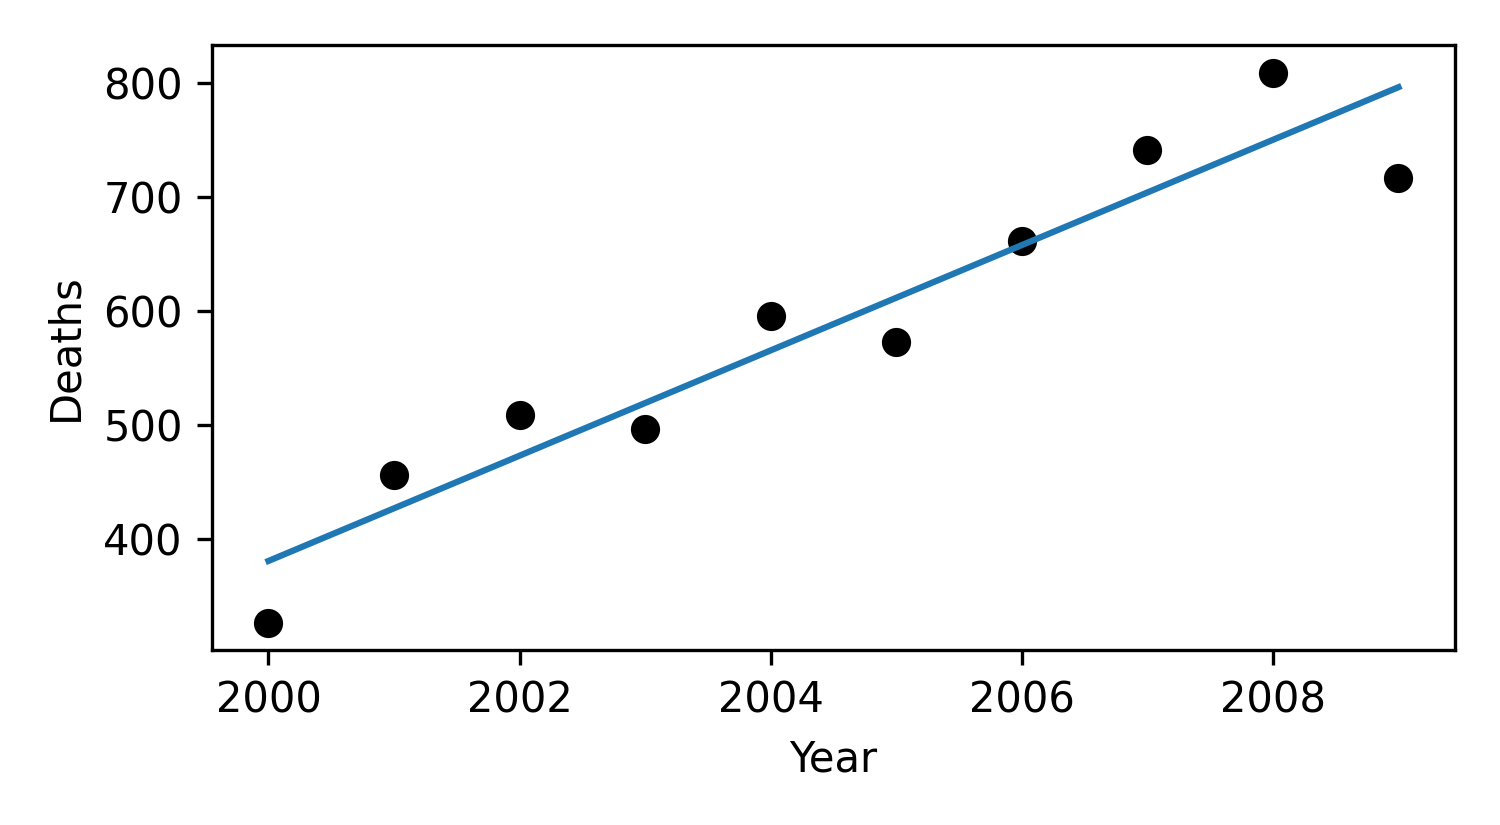
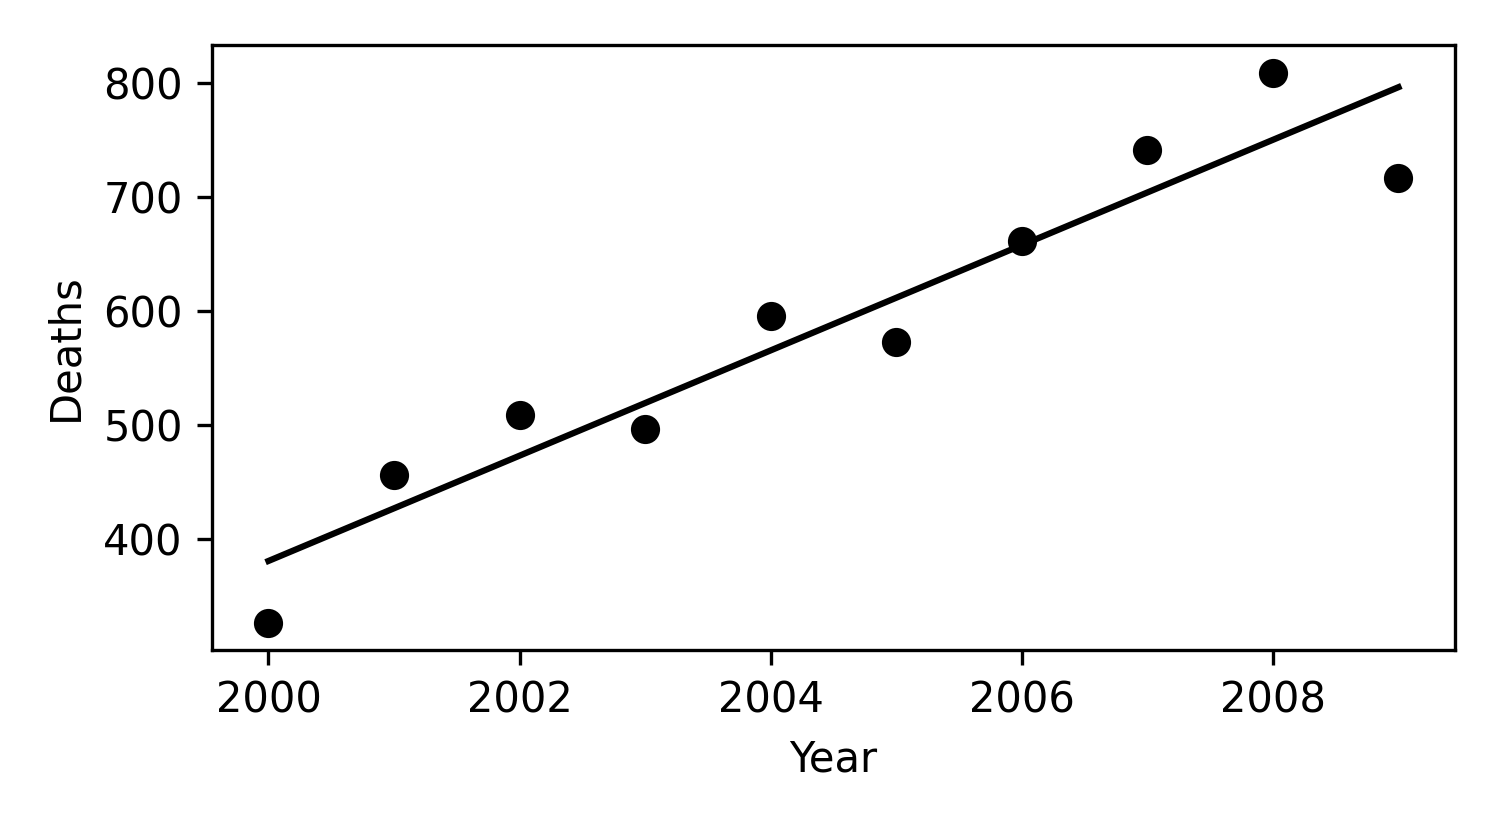
added subplots + tips

diff --git a/workshop_slides/index.html b/workshop_slides/index.html
@@ -9,7 +9,7 @@
     <link href="libs/font-awesome/css/v4-shims.css" rel="stylesheet" />
     <link href="libs/tile-view/tile-view.css" rel="stylesheet" />
     <script src="libs/tile-view/tile-view.js"></script>
-    <script type="application/json" id="xaringanExtra-editable-docid">{"id":"d8af196d5f0447999251be35ef90fbaa","expires":1}</script>
+    <script type="application/json" id="xaringanExtra-editable-docid">{"id":"xd3f2c82b7274dc48c5416cb8ad653d3","expires":1}</script>
     <script src="libs/himalaya/himalaya.js"></script>
     <script src="libs/js-cookie/js.cookie.js"></script>
     <link href="libs/editable/editable.css" rel="stylesheet" />
@@ -120,7 +120,7 @@ import pandas as pd
 
 class: middle
 
-Let's use [this data set](./data/cheese_and_deaths.csv) for our discussion 😄 ([click to download](./data/cheese_and_deaths.csv))
+Let's use [the cheese and deaths dataset](./data/cheese_and_deaths.csv) for our discussion 😄 ([click me to download](./data/cheese_and_deaths.csv))
 
 
 ```python
@@ -214,7 +214,7 @@ Let's create the functions `\(\Delta\)`, `\(A\)`, and `\(B\)` together!
 \end{equation*}`
 
 .can-edit[
-add code here!
+click here to add code :)
 ]
 ]
 
@@ -226,23 +226,21 @@ add code here!
 \end{equation*}`
 
 .can-edit[
-add code here
+click here to add code :)
 ]
 ]
 
 .panel[.panel-name[B(x, y)]
-.small[.hand[Your turn!]]
-
 `\begin{equation*}
   B(x, y) = \frac{N \sum xy - \sum x \sum y}{\Delta}
 \end{equation*}`
 
 .can-edit[
-you add the code now :)
+your turn to code now :)
 ]
 
-&lt;br&gt;&lt;br&gt;&lt;br&gt;&lt;br&gt;&lt;br&gt;&lt;br&gt;&lt;br&gt;
-<div class="countdown" id="timer_618ad31b" style="right:0;bottom:0;" data-warnwhen="0">
+&lt;br&gt;&lt;br&gt;&lt;br&gt;&lt;br&gt;&lt;br&gt;&lt;br&gt;&lt;br&gt;&lt;br&gt;&lt;br&gt;
+<div class="countdown" id="timer_618b3427" style="right:0;bottom:0;" data-warnwhen="0">
 <code class="countdown-time"><span class="countdown-digits minutes">01</span><span class="countdown-digits colon">:</span><span class="countdown-digits seconds">00</span></code>
 </div>
 
@@ -251,29 +249,18 @@ you add the code now :)
 
 ---
 
-class: middle
-
-.small[.hand[Let's add a line to our plot 😄]]
-
-
-```python
-plt.figure(figsize=(5, 2.75))
-plt.scatter(df['year'], df['deaths'], color='black')
-plt.xlabel('Year')
-plt.ylabel('Deaths')
-plt.tight_layout()
-plt.show()
-```
+.panelset[
+.panel[.panel-name[How do we add lines?]
+.small[.hand[Recall that this was our plot:]
 
 &lt;img src="index_files/figure-html/orig-fig-1.png" width="480" /&gt;
+]]
 
----
-
-.panelset[
 .panel[.panel-name[Generate the line]
+.small[.hand[Let's add a line to our plot 😄]
 
 
-.small[
+
 
 ```python
 intercept = A(df['year'], df['deaths'])
@@ -281,6 +268,8 @@ slope = B(df['year'], df['deaths'])
 x = np.linspace(min(df['year']), max(df['year']), len(df['year']))
 y = intercept + slope*x
 ```
+
+The function `np.linspace(start, stop, num)` will generate evenly spaced numbers `num` times from `start` to `stop`.
 ]]
 
 .panel[.panel-name[Plot the line]
@@ -288,7 +277,7 @@ y = intercept + slope*x
 
 ```python
 plt.figure(figsize=(5, 2.75))
-*plt.plot(x, y)
+*plt.plot(x, y, color='black')
 plt.scatter(df['year'], df['deaths'], color='black')
 plt.xlabel('Year')
 plt.ylabel('Deaths')
@@ -313,9 +302,122 @@ Using the same dataset (`df`),
 ]
 &lt;br&gt;&lt;br&gt;&lt;br&gt;
 
-<div class="countdown" id="timer_618ad0b7" style="right:0;bottom:0;" data-warnwhen="0">
+<div class="countdown" id="timer_618b32db" style="right:0;bottom:0;" data-warnwhen="0">
 <code class="countdown-time"><span class="countdown-digits minutes">02</span><span class="countdown-digits colon">:</span><span class="countdown-digits seconds">00</span></code>
 </div>
+
+---
+
+class: middle
+
+# Subplots
+
+.hand[Q:] It's nice that we have a plot for `year` vs `deaths` and `year` vs `cheese_consumption`, but what if we want them on the same plot?
+
+.hand[A:] Subplots!
+
+---
+
+.panelset[
+.panel[.panel-name[Adding the cheese axis]
+Recall from previou slides that `x = df['year']` and `y = df['deaths']`.
+
+Let's create the second y-axis, `y1`.
+
+
+```python
+intercept_cheese = A(df['year'], df['cheese_consumption'])
+slope_cheese = B(df['year'], df['cheese_consumption'])
+y1 = slope_cheese*x + intercept_cheese
+```
+]
+
+.panel[.panel-name[Subplots]
+.small[
+.pull-left[
+
+```python
+*fig, ax1 = plt.subplots()
+*ax2 = ax1.twinx()
+
+ax1.plot(x, y, color='red')
+ax2.plot(x, y1, color='black')
+ax1.scatter(df['year'], df['deaths'],
+  color='red')
+ax2.scatter(df['year'],
+  df['cheese_consumption'],
+  color='black')
+
+ax1.set_xlabel('Year')
+ax1.set_ylabel('Besheet tanglies',
+  color='red')
+ax2.set_ylabel('Cheese consumed (lbs)')
+
+plt.tight_layout()
+plt.show()
+```
+]
+
+.pull-right[
+&lt;img src="index_files/figure-html/subplots-1.png" width="480" /&gt;
+
+.hand[Hmmm... this plot might be nice enough to save 😉.]
+]
+
+]]
+
+.panel[.panel-name[Saving figures]
+.pull-left[
+.hand[Saving is as easy as plt.savefig()!]
+
+.tiny[
+&lt;img src="index_files/figure-html/save-fig-3.png" width="480" /&gt;
+]]
+.pull-right[
+.hand[Fun fact: the correlation between per capita cheese consumption and number of people who die by becoming tangled in their bedsheets in this dataset is 94.71% (r = 0.9471).]
+
+.small[Correlation != causation (or does it... haha)]
+]
+
+]
+
+]
+
+---
+
+class: middle
+
+# Now let's look at some common issues and their solutions 👨💻
+
+---
+
+.panelset[
+.panel[.panel-name[Reading data]
+Issue: "I can't read my data in!"
+
+Solution: Check that your working directory is correct. Also check that you're reading in the correct file type.
+]
+
+.panel[.panel-name[Functions]
+Issue: "plt.plot(), np,linspace, pd.read_csv() aren't working 😠"
+
+Solution: Make sure you import the libraries! Make sure to install them too (only need to install once).
+
+E.g., `pip install pandas`, `pip3 install numpy`, `conda install matplotlib`.
+]
+
+.panel[.panel-name[Empty plot]
+Issue: "My plot is empty when I save my figure 😢"
+
+Solution: Save your figure *before* calling `plt.show()`.
+]
+
+.panel[.panel-name[Other bugs]
+Issue: "How do I do [x, y, z]???" 
+
+Solution: Stack Overflow and Google are your best friends!
+]
+]
 
 ---
 
@@ -337,7 +439,7 @@ class: middle
 **Hint:** The previous slides might come in handy.
 ]
 
-<div class="countdown" id="timer_618ad0dd" style="right:0;bottom:0;" data-warnwhen="0">
+<div class="countdown" id="timer_618b3622" style="right:0;bottom:0;" data-warnwhen="0">
 <code class="countdown-time"><span class="countdown-digits minutes">02</span><span class="countdown-digits colon">:</span><span class="countdown-digits seconds">00</span></code>
 </div>
 
